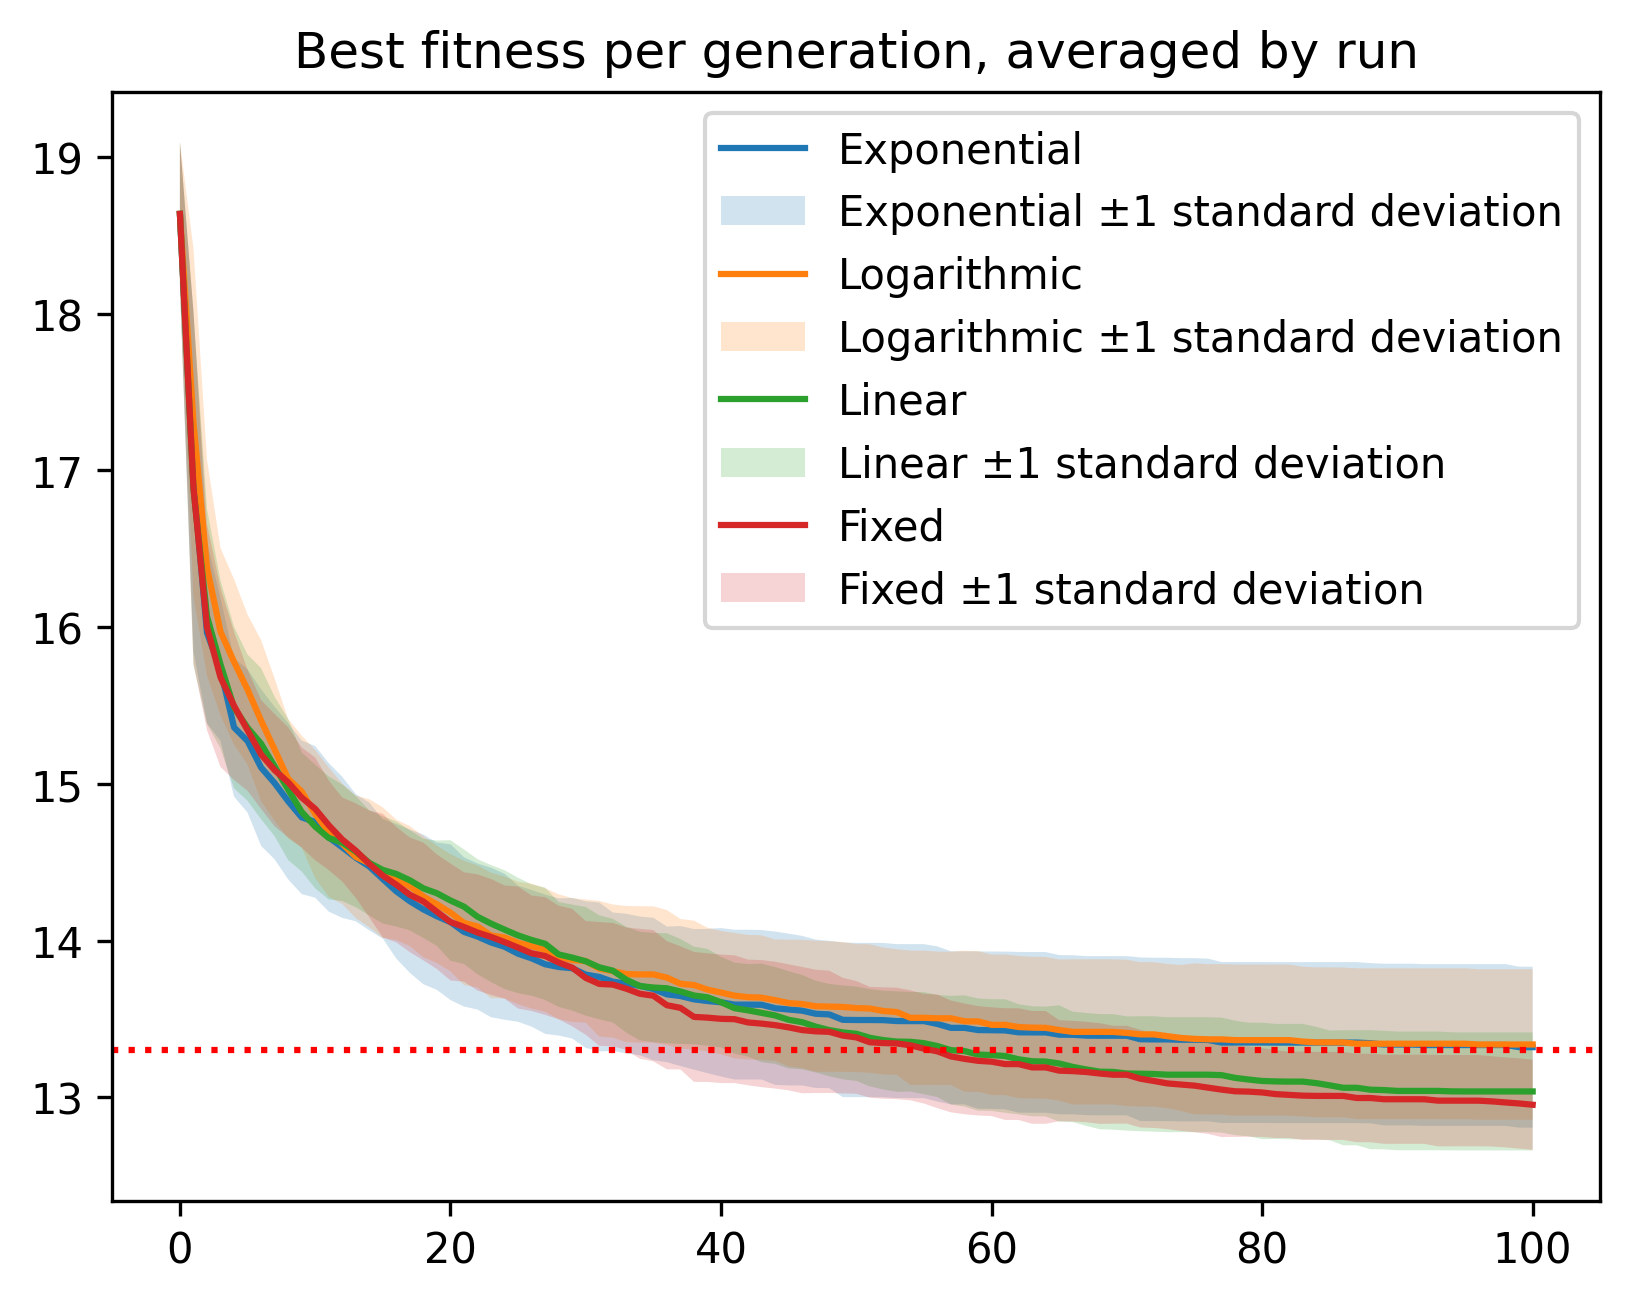
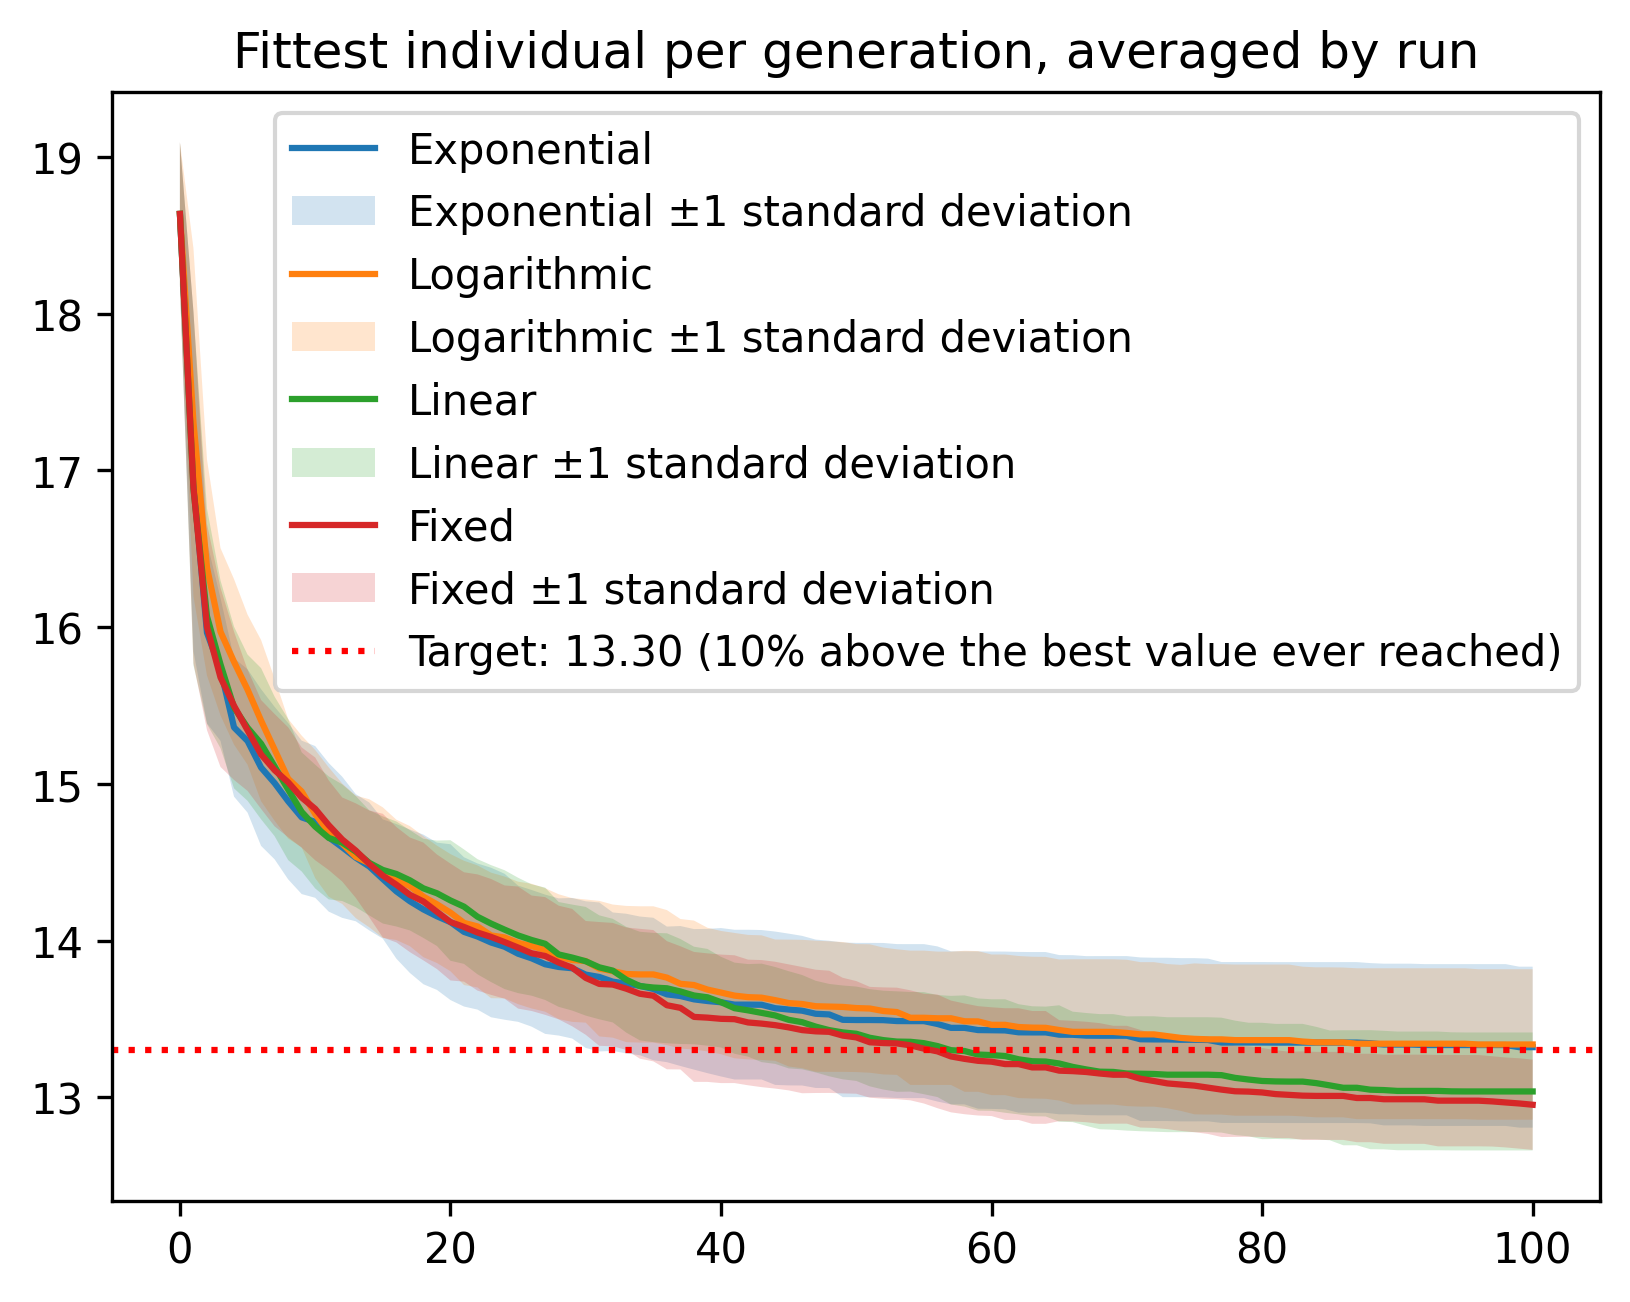
Also generate zoomed in plot for better visibility

diff --git a/EvolutionaryComputing2026/assignments/assignment_1/data_analysis.py b/EvolutionaryComputing2026/assignments/assignment_1/data_analysis.py
@@ -151,7 +151,7 @@ def get_best_run():
     dataframes = []
 
     for file in files:
-        path = Path("assignments") / "assignment_1" / "outputs" / file
+        path = HERE / "outputs" / file
         df = pd.read_csv(path)
         dataframes.append(df)
 
@@ -164,7 +164,7 @@ def get_best_run():
 
 def create_averaged_plot(threshold: float, comparison: None | list[str] = None):
 
-    if comparison is False:
+    if not comparison:
         files = [
             "dataset_exponential.csv",
             "dataset_logarithmic.csv",
@@ -176,7 +176,7 @@ def create_averaged_plot(threshold: float, comparison: None | list[str] = None):
         files = [f"dataset_{s.strip().lower()}.csv" for s in comparison]
 
     for file in files:
-        path = Path("assignments") / "assignment_1" / "outputs" / file
+        path = HERE / "outputs" / file
         df = pd.read_csv(path)
 
         stats = df.groupby("generation")["best_so_far"].agg(["mean", "std"])
@@ -185,7 +185,7 @@ def create_averaged_plot(threshold: float, comparison: None | list[str] = None):
 
         plt.plot(stats.index, stats["mean"], label=f"{plot_type.group().capitalize()}")
 
-        if comparison is False:
+        if not comparison:
             plt.title("Fittest individual per generation, averaged by run")
 
         else:
@@ -200,13 +200,16 @@ def create_averaged_plot(threshold: float, comparison: None | list[str] = None):
         )
 
     plt.axhline(
-        y=threshold, color="red", linestyle=":", label=f"Target: {threshold:.2f}"
+        y=threshold,
+        color="red",
+        linestyle=":",
+        label=f"Target: {threshold:.2f} (10% above the best value ever reached)",
     )
 
     plt.legend()
 
     # Create the output folder if it does not exist.
-    output_dir = Path("assignments") / "assignment_1" / "outputs" / "averages"
+    output_dir = HERE / "outputs" / "averages"
     output_dir.mkdir(parents=True, exist_ok=True)
 
     plt.savefig(
@@ -219,6 +222,21 @@ def create_averaged_plot(threshold: float, comparison: None | list[str] = None):
         dpi=300,
         bbox_inches="tight",
     )
+
+    # Save the same curves again, zoomed around the threshold in later generations.
+    plt.xlim(40, 100)
+    plt.ylim(threshold - 0.5, threshold + 0.5)
+    plt.xlabel("Generation")
+    plt.ylabel("Mean best-so-far fitness")
+    plt.title("Convergence near the threshold (zoomed)")
+    plt.legend(fontsize=7)
+    zoom_name = (
+        "average_best_runs_zoomed"
+        if not comparison
+        else "comparison_" + "_".join(s.strip().lower() for s in comparison) + "_zoomed"
+    )
+    plt.savefig(output_dir / f"{zoom_name}.png", dpi=300, bbox_inches="tight")
+    plt.close()
 
 
 def visualize_decrease_schedules(n_generations):
